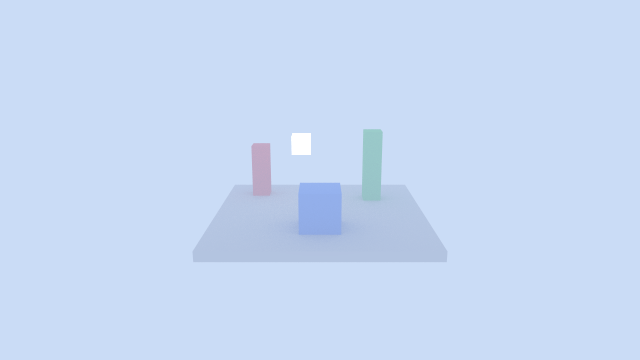
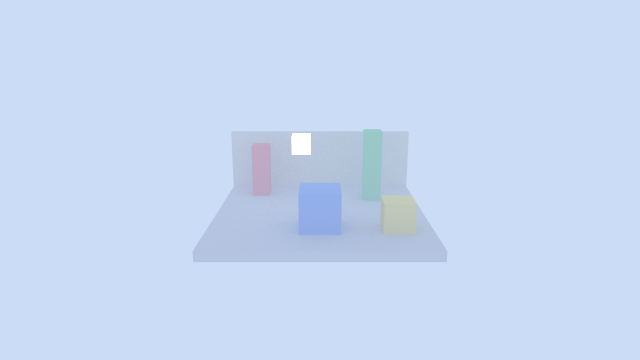
Multithread the reference renderer; refresh showcase images
path_render now renders rows in parallel via an atomic row dispatcher (dynamic
scheduling balances heavy regions like frosted glass). Output is bit-for-bit
identical to serial because each pixel's RNG is seeded from (seed, pixel index)
only. ~4x speedup on 4 cores; scales with the target's 16+ cores. Tests and tools
link Threads.

Also refresh the four showcase renders for the enriched scene (back wall, yellow
box, smooth glass cube + frosted glass slab) and note frosted glass + threading in
the README/roadmap. Full suite (55 cases) green.

https://claude.ai/code/session_014PVkYs8vEG8Eybpxymwygm

Changed region(s): [[0.3438, 0.3667, 0.6562, 0.6722]]

diff --git a/native/src/render/path_integrator.cpp b/native/src/render/path_integrator.cpp
@@ -1,7 +1,10 @@
 #include "render/path_integrator.h"
 
 #include <algorithm>
+#include <atomic>
 #include <cmath>
+#include <thread>
+#include <vector>
 
 #include "render/bsdf.h"
 
@@ -292,40 +295,66 @@ std::vector<Vec3> path_render(const TriangleScene &scene, const PinholeCamera &c
                               uint64_t seed) {
     std::vector<Vec3> fb(static_cast<std::size_t>(settings.width) * settings.height);
 
-    for (int y = 0; y < settings.height; ++y) {
-        for (int x = 0; x < settings.width; ++x) {
-            const std::size_t pixel = static_cast<std::size_t>(y) * settings.width + x;
-            // Per-pixel stream keyed by seed + pixel index => deterministic.
-            Pcg32 rng(seed, pixel * 2u + 1u);
-
-            Vec3 sum{0.0f, 0.0f, 0.0f};
-            for (int s = 0; s < settings.spp; ++s) {
-                const float jx = rng.next_float();
-                const float jy = rng.next_float();
-                const float sx = (static_cast<float>(x) + jx) / static_cast<float>(settings.width);
-                const float sy =
-                        1.0f - (static_cast<float>(y) + jy) / static_cast<float>(settings.height);
-                const Ray ray = camera.generate_ray(sx, sy);
-
-                float primary_t = -1.0f;
-                Vec3 L = settings.next_event_estimation
-                                 ? trace_path_nee(scene, palette, ray, rng, settings.max_depth,
-                                                  settings.env_radiance, &primary_t)
-                                 : trace_path(scene, palette, ray, rng, settings.max_depth,
-                                              settings.env_radiance, &primary_t);
-
-                // Distance fog / aerial perspective on the primary segment.
-                if (settings.medium_enabled && primary_t > 0.0f) {
-                    const Vec3 tr = transmittance(settings.medium, primary_t);
-                    L = Vec3{L.x * tr.x + settings.fog_inscatter.x * (1.0f - tr.x),
-                             L.y * tr.y + settings.fog_inscatter.y * (1.0f - tr.y),
-                             L.z * tr.z + settings.fog_inscatter.z * (1.0f - tr.z)};
-                }
-                sum = sum + L;
+    // Each pixel's RNG is keyed only by (seed, pixel index), so rendering rows in
+    // parallel is bit-for-bit identical to the serial result. Rows are handed out
+    // dynamically via an atomic counter so heavy regions (e.g. frosted glass with
+    // many internal bounces) don't stall one thread while others idle.
+    std::atomic<int> next_row{0};
+    auto worker = [&]() {
+        for (;;) {
+            const int y = next_row.fetch_add(1, std::memory_order_relaxed);
+            if (y >= settings.height) {
+                break;
             }
-            const float inv = 1.0f / static_cast<float>(settings.spp);
-            fb[pixel] = sum * inv;
+            for (int x = 0; x < settings.width; ++x) {
+                const std::size_t pixel = static_cast<std::size_t>(y) * settings.width + x;
+                Pcg32 rng(seed, pixel * 2u + 1u);
+
+                Vec3 sum{0.0f, 0.0f, 0.0f};
+                for (int s = 0; s < settings.spp; ++s) {
+                    const float jx = rng.next_float();
+                    const float jy = rng.next_float();
+                    const float sx =
+                            (static_cast<float>(x) + jx) / static_cast<float>(settings.width);
+                    const float sy = 1.0f - (static_cast<float>(y) + jy) /
+                                                    static_cast<float>(settings.height);
+                    const Ray ray = camera.generate_ray(sx, sy);
+
+                    float primary_t = -1.0f;
+                    Vec3 L = settings.next_event_estimation
+                                     ? trace_path_nee(scene, palette, ray, rng, settings.max_depth,
+                                                      settings.env_radiance, &primary_t)
+                                     : trace_path(scene, palette, ray, rng, settings.max_depth,
+                                                  settings.env_radiance, &primary_t);
+
+                    // Distance fog / aerial perspective on the primary segment.
+                    if (settings.medium_enabled && primary_t > 0.0f) {
+                        const Vec3 tr = transmittance(settings.medium, primary_t);
+                        L = Vec3{L.x * tr.x + settings.fog_inscatter.x * (1.0f - tr.x),
+                                 L.y * tr.y + settings.fog_inscatter.y * (1.0f - tr.y),
+                                 L.z * tr.z + settings.fog_inscatter.z * (1.0f - tr.z)};
+                    }
+                    sum = sum + L;
+                }
+                fb[pixel] = sum * (1.0f / static_cast<float>(settings.spp));
+            }
         }
+    };
+
+    const unsigned hw = std::max(1u, std::thread::hardware_concurrency());
+    const unsigned n_threads = std::min<unsigned>(hw, std::max(1, settings.height));
+    if (n_threads <= 1) {
+        worker();
+        return fb;
+    }
+
+    std::vector<std::thread> pool;
+    pool.reserve(n_threads);
+    for (unsigned t = 0; t < n_threads; ++t) {
+        pool.emplace_back(worker);
+    }
+    for (std::thread &th : pool) {
+        th.join();
     }
     return fb;
 }

diff --git a/README.md b/README.md
@@ -84,12 +84,13 @@ cmake -S native/tools -B native/build-tools && cmake --build native/build-tools 
 # (--spp=N overrides samples per pixel; flags combine, e.g. --pt --nee --glass)
 ```
 
-It is BVH-accelerated and supports direct sun + hard shadows, a Monte Carlo **path integrator**
-(cosine-importance-sampled diffuse GI, **GGX** specular, **next-event estimation + MIS**),
-homogeneous **volumetric "air"** (Beer–Lambert distance fog / aerial perspective), and smooth
-**dielectric glass** (Snell refraction, Fresnel, total internal reflection, tinted via
-Beer–Lambert). The GI is verified by white-furnace energy-conservation tests, the fog and glass by
-Beer–Lambert transmittance tests, and refraction by Snell/Fresnel/TIR unit tests.
+It is BVH-accelerated and **multithreaded** (deterministic — pixels are independently seeded), and
+supports direct sun + hard shadows, a Monte Carlo **path integrator** (cosine-importance-sampled
+diffuse GI, **GGX** specular, **next-event estimation + MIS**), homogeneous **volumetric "air"**
+(Beer–Lambert distance fog / aerial perspective), and **dielectric glass** — smooth and rough
+(frosted) — with Snell refraction, Fresnel, total internal reflection, and Beer–Lambert tint. The
+GI is verified by white-furnace energy-conservation tests, the fog and glass by Beer–Lambert
+transmittance tests, and refraction by Snell/Fresnel/TIR unit tests.
 
 | Direct lighting | Path-traced GI | Volumetric air | Glass (refraction) |
 |---|---|---|---|

diff --git a/docs/ROADMAP.md b/docs/ROADMAP.md
@@ -28,10 +28,13 @@ accumulation, GGX PBR; load a glTF test mesh + materials.
   verified by equality-in-expectation against the BSDF-only path tracer and a variance-reduction
   test (`trace_path_nee`, `TriangleScene::{build,sample}_light*`). This is the precursor to the
   GPU ReSTIR DI work.
-- [x] Smooth **dielectric glass**: Snell refraction, unpolarized Fresnel, total internal
-  reflection, radiance scaling across the boundary, and Beer–Lambert tint inside the glass
-  (`bsdf::{fresnel_dielectric,refract}`, `dielectric_bounce`). Verified by Snell/Fresnel/TIR unit
-  tests and integrator transmittance tests (`--glass`).
+- [x] **Dielectric glass** — smooth and rough/frosted (GGX microfacet refraction, Walter 2007):
+  Snell refraction, unpolarized Fresnel, total internal reflection, radiance scaling across the
+  boundary, and Beer–Lambert tint (`bsdf::{fresnel_dielectric,refract,ggx_sample_normal_local}`,
+  `dielectric_bounce`). Verified by Snell/Fresnel/TIR unit tests, integrator transmittance tests,
+  and a white-furnace energy-conservation bound (`--glass`).
+- [x] Reference renderer is **multithreaded** (atomic-dispatched scanlines; ~4x on 4 cores) and
+  bit-for-bit deterministic, since each pixel's RNG is seeded from (seed, pixel index).
 - [ ] GPU: BLAS/TLAS + RT pipeline; primary-hit albedo; NEE shadows; temporal accumulation; GGX BSDF.
 
 ### Volumetrics ("air") — CPU groundwork
